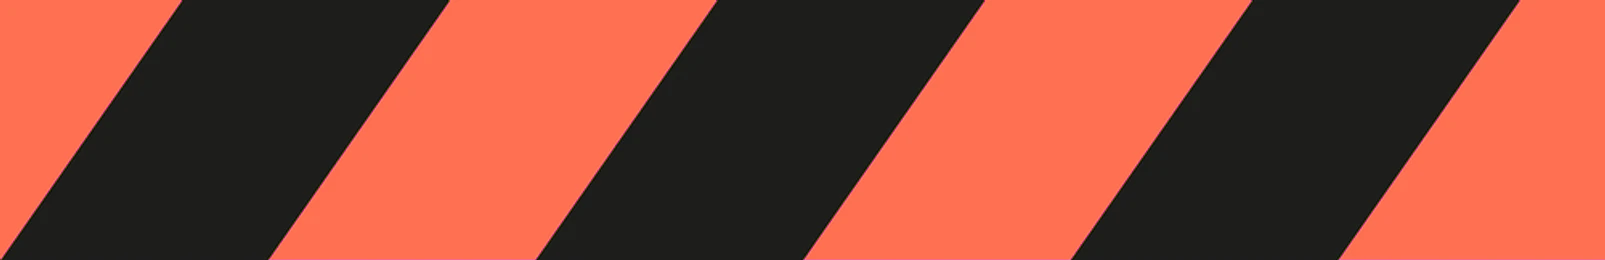
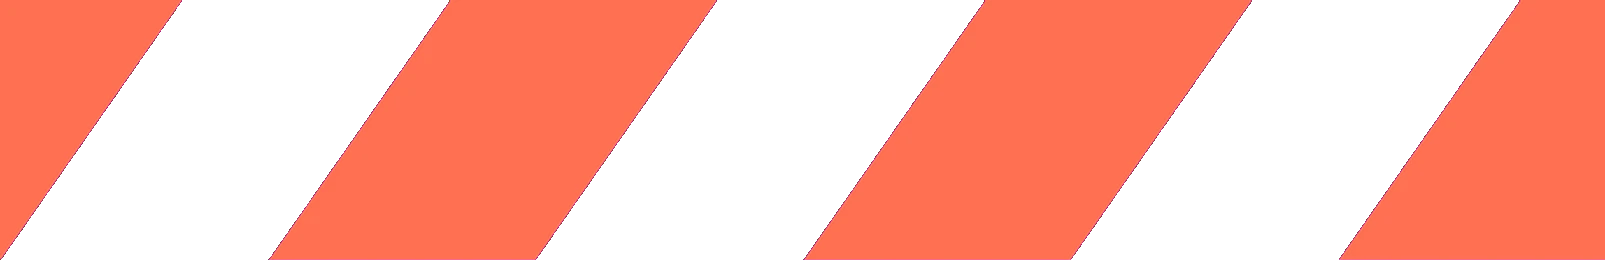
Risk analysis matrix UI WIP
- Added page for testing slider and button UI. Page is barebones to get an idea of what it will look like and modal with slider UI is still being worked on.

- Changed tape colour to orange on white instead of orange on black.

diff --git a/src/pages/Matrix.tsx b/src/pages/Matrix.tsx
@@ -1,0 +1,50 @@
+import { IonButton, IonCol, IonContent, IonGrid, IonHeader, IonInput, IonPage, IonRow, IonTextarea } from '@ionic/react';
+import { useState } from 'react';
+import NavBar from '../components/NavBar';
+import RiskModal from '../components/RiskModal';
+import './Matrix.css';
+
+interface MatrixProps {}
+
+const Matrix: React.FC<MatrixProps> = () => {
+    const[modal1State, setModal1State] = useState<boolean>(false);
+    const[modal2State, setModal2State] = useState<boolean>(false);
+
+    return (
+        <IonPage>
+            <IonHeader>
+                <NavBar />
+            </IonHeader>
+            <IonContent fullscreen>
+                <IonGrid id="task-step-details-grid" fixed={true}>
+                    <IonRow>
+                        <IonCol size="12">
+                            <h1>Task Analysis</h1>
+                            <h4>Task step details:</h4>
+                            <div id="description-container">
+                                <h4>Task Description:</h4>
+                                <IonTextarea placeholder="Enter task description" autoGrow={true}></IonTextarea>
+                                <h4>Hazards Present:</h4>
+                                <IonTextarea placeholder="Enter hazards present" autoGrow={true}></IonTextarea>
+                                <div className="horizontal-container">
+                                    <h4>Risk score initial:</h4>
+                                    <IonButton onClick={() => setModal1State(true)}>Click to enter</IonButton>
+                                </div>
+                                <RiskModal modalState={modal1State} setModalState={setModal1State}/>
+                                <h4>Control:</h4>
+                                <IonTextarea placeholder="Enter controls" autoGrow={true}></IonTextarea>
+                                <div className="horizontal-container">
+                                    <h4>Risk score after:</h4>
+                                    <IonButton onClick={() => setModal2State(true)}>Click to enter</IonButton>
+                                </div>
+                                <RiskModal modalState={modal2State} setModalState={setModal2State}/>
+                            </div>
+                        </IonCol>
+                    </IonRow>
+                </IonGrid>
+            </IonContent>
+        </IonPage>
+    );
+}
+
+export default Matrix;

diff --git a/src/components/RiskModal.tsx b/src/components/RiskModal.tsx
@@ -1,0 +1,52 @@
+import { IonButton, IonButtons, IonContent, IonFooter, IonHeader, IonIcon, IonModal, IonTitle, IonToolbar } from '@ionic/react';
+import { closeCircle } from 'ionicons/icons';
+import { Dispatch, SetStateAction, useState } from 'react';
+import './RiskModal.css';
+
+interface RiskModalProps {modalState:boolean, setModalState:Dispatch<SetStateAction<boolean>>}
+
+const RiskModal: React.FC<RiskModalProps> = ({modalState, setModalState}) => {
+
+    return (
+        <IonModal isOpen={modalState} class="risk-modal" onDidDismiss={()=>setModalState(false)}>
+            {/* Modal header */}
+            <IonHeader>
+                <IonToolbar class="modal-toolbar">
+                    <IonTitle>Consequence</IonTitle>
+                    <IonButtons slot="end">
+                        <IonButton onClick={() => setModalState(false)}>
+                            <IonIcon icon={closeCircle} slot="icon-only"></IonIcon>
+                        </IonButton>
+                    </IonButtons>
+                </IonToolbar>
+            </IonHeader>
+
+            {/* Main modal content */}
+            <IonContent>
+                <div className="risk-question">What is the consequence if something goes wrong?</div>
+                <div className="selection-ui-container">
+                    <div>
+                        <input className="vertical-slider" type="range" min="1" max="5"></input>
+                    </div>
+                    <div>
+
+                    </div>
+                </div>
+            </IonContent>
+
+            {/* Modal footer (controls) */}
+            <IonFooter>
+                <IonToolbar class="footer-toolbar">
+                    <div className="center-content">
+                        <IonButtons class="footer-buttons">
+                            <IonButton mode="md">Previous</IonButton>
+                            <IonButton mode="md">Next</IonButton>
+                        </IonButtons>
+                    </div>
+                </IonToolbar>
+            </IonFooter>
+        </IonModal>
+    );
+}
+
+export default RiskModal;

diff --git a/src/components/RiskModal.css b/src/components/RiskModal.css
@@ -1,0 +1,94 @@
+/** Top level modal element */
+.risk-modal {
+    /* --height: 90vh; */
+}
+/* ########## */
+/* # Header # */
+/* ########## */
+/** Grey toolbar at top of modal */
+.modal-toolbar {
+    --background: #D1D1D1;
+    --min-height: 20px;
+    color: var(--logoGrey);
+}
+.center-content {
+    display: flex;
+    justify-content: center;
+}
+/** Modal title */
+.modal-toolbar ion-title {
+    padding-left: 10px;
+    font-size: 2.2rem;
+    font-weight: bold;
+}
+/** Close button  */
+.modal-toolbar ion-button {
+    --padding-top: 0;
+    --padding-end: 0;
+    --padding-bottom: 0;
+    --padding-start: 0;
+}
+.modal-toolbar ion-icon {
+    color: var(--logoGrey);
+}
+
+/* ########### */
+/* # Content # */
+/* ########### */
+/** Modal content  */
+.risk-modal ion-content {
+    --padding-top: 10px;
+    --padding-end: 10px;
+    --padding-bottom: 10px;
+    --padding-start: 10px;
+}
+.risk-modal ion-content div {
+    box-shadow: 0 0 5px greenyellow;
+}
+/** Consequence/likelihood question */
+.risk-question {
+    font-size: 1.5rem;
+}
+.selection-ui-container {
+    padding: 10px 0 10px 0;
+    width: 100%;
+    height: 95%;
+    display: flex;
+    justify-content: center;
+}
+/** First box (slider) */
+.selection-ui-container > div:nth-child(1) {
+    height: 100%;
+    aspect-ratio: 1 / 10;
+    display: flex;
+    justify-content: center;
+    align-items: center;
+    box-shadow: 0 0 5px blue;
+}
+.vertical-slider {
+    height: 10%;
+    aspect-ratio: 9 / 1;
+    transform: rotate(270deg);
+    box-shadow: 0 0 5px deeppink;
+}
+/** Second box (cards) */
+.selection-ui-container div:nth-child(2) {
+    height: 100%;
+    width: 100px;
+}
+
+/* ########## */
+/* # Footer # */
+/* ########## */
+/** Modal footer */
+.footer-toolbar {
+    --background: #D1D1D1;
+    --min-height: 20px;
+    color: var(--logoGrey);
+}
+.footer-buttons ion-button {
+    margin: 5px;
+    background-color: var(--logoGrey);
+    color: white !important;
+    border-radius: 5px;
+}

diff --git a/src/components/ActivityCard.tsx b/src/components/ActivityCard.tsx
@@ -1,15 +1,18 @@
 import { IonButton, IonCard, IonCardContent, IonCardHeader, IonCardTitle, IonCol, IonIcon } from '@ionic/react';
 import './ActivityCard.css'
 
-interface  ActivityCardProps {cardIcon:string, cardTitle:string, cardContent:string}
+interface  ActivityCardProps {cardIcon:string, cardTitle:string, cardContent:string, cardColor?:string, href?:string}
 
-const ActivityCard: React.FC<ActivityCardProps> = ({cardIcon, cardTitle, cardContent}) => {
+const ActivityCard: React.FC<ActivityCardProps> = ({cardIcon, cardTitle, cardContent, cardColor, href}) => {
+    if(cardColor) {
+        console.log(cardColor);
+    }
     return (
         <IonCol class="card-column" sizeXl="3" sizeLg="3" sizeMd="4" sizeSm="6" size="6">
-            <IonCard class="activity-card ion-text-center" button={true}>
+            <IonCard class="activity-card ion-text-center" button={true} href={href} style={{"backgroundColor":cardColor}}>
                 <IonCardHeader>
                     <div className="icon-circle">
-                        <IonIcon icon={cardIcon}></IonIcon>
+                        <IonIcon icon={cardIcon} style={{"color":cardColor}}></IonIcon>
                     </div>
                     <IonCardTitle>{cardTitle}</IonCardTitle>
                 </IonCardHeader>

diff --git a/src/pages/Home.tsx b/src/pages/Home.tsx
@@ -1,5 +1,5 @@
 import { IonContent, IonGrid, IonHeader, IonPage, IonRow, IonTitle, IonToolbar } from '@ionic/react';
-import { alert, car, chatboxEllipses, checkbox, checkmark, documentText, medkit } from 'ionicons/icons'
+import { alert, calculator, car, chatboxEllipses, checkbox, checkmark, documentText, medkit } from 'ionicons/icons'
 import ExploreContainer from '../components/ExploreContainer';
 import NavBar from '../components/NavBar';
 import ActivityCard from '../components/ActivityCard';
@@ -49,6 +49,14 @@ const Home: React.FC = () => {
               cardIcon={documentText}
               cardTitle="My Documents"
               cardContent="Health & safety reports" />
+            {/* #8 */}
+            <ActivityCard
+              cardIcon={calculator}
+              cardTitle="Risk assessment matrix"
+              cardContent="Experimental UI for selecting risk levels in a slider/card arrangement"
+              cardColor="#FF7052"
+              href="/risk-assessment-matrix"
+             />
           </IonRow>
         </IonGrid>
       </IonContent>

diff --git a/src/pages/Matrix.css b/src/pages/Matrix.css
@@ -1,0 +1,29 @@
+#task-step-details-grid {
+    margin-top: 25px;
+    --ion-grid-width-lg: 900px;
+    --ion-grid-width-xl: 1000px;
+    height: auto;
+    border-style: solid;
+    border-width: 1px;
+}
+#task-step-details-grid h1 {
+    font-weight: bold;
+}
+#description-container {
+    padding: 5px 5px 20px 5px;
+    border-style: solid;
+    border-width: 1.5px;
+}
+#description-container ion-textarea {
+    min-height: 50px;
+    max-height: 150px;
+    background-color: lightgrey;
+    font-size: 1.2rem;
+    border-radius: 2px;
+}
+.horizontal-container {
+    padding: 10px 0 0 0;
+    display: flex;
+    justify-content: flex-start;
+    align-items: center;
+}

diff --git a/src/App.tsx b/src/App.tsx
@@ -22,6 +22,7 @@ import '@ionic/react/css/display.css';
 /* Theme variables */
 import './theme/variables.css';
 import './theme/global.css';
+import Matrix from './pages/Matrix';
 
 setupIonicReact();
 
@@ -34,6 +35,9 @@ const App: React.FC = () => (
         </Route>
         <Route exact path="/">
           <Redirect to="/home" />
+        </Route>
+        <Route exact path="/risk-assessment-matrix">
+          <Matrix />
         </Route>
       </IonRouterOutlet>
     </IonReactRouter>

diff --git a/src/components/NavBar.tsx b/src/components/NavBar.tsx
@@ -19,7 +19,7 @@ const NavBar: React.FC<NavProps> = () => {
 
             {/* Nav buttons */}
             <IonButtons slot="end">
-                <IonButton>
+                <IonButton href="/home">
                     <IonIcon icon={home} slot="icon-only"></IonIcon>
                 </IonButton>
                 <IonButton id="menu-button">

diff --git a/src/components/ActivityCard.css b/src/components/ActivityCard.css
@@ -8,7 +8,7 @@
     padding: 10px;
     min-height: 200px;
     color: white;
-    --background: var(--primaryBP);
+    background-color: var(--primaryBP);
     border-radius: 15px;
 }
 /** Ion Header and content containers */
